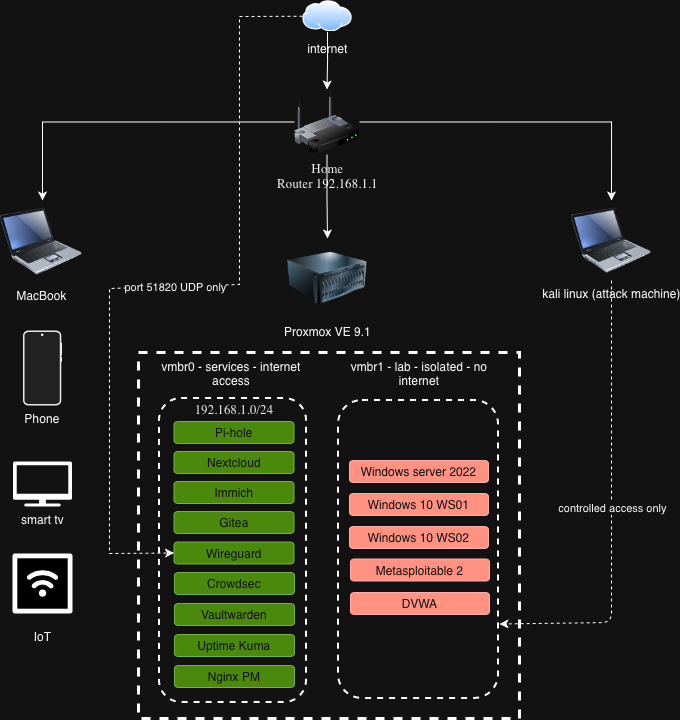
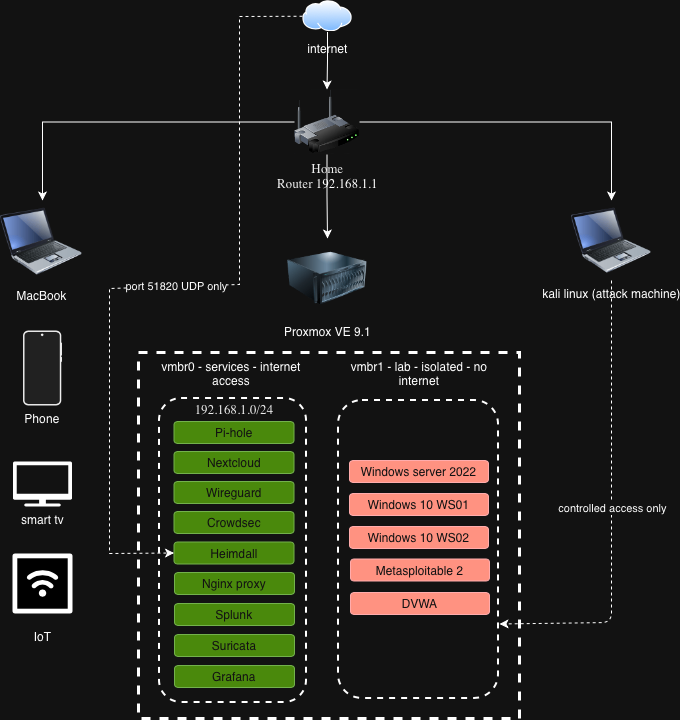
updated services, setup.md, storage.md, issues-log and network diagram

diff --git a/proxmox/issues-log.md b/proxmox/issues-log.md
@@ -119,3 +119,147 @@ critical. When setting up a firewall remotely always
 have a physical access plan in case you lock yourself out.
 A monitor and keyboard connected to the server is your
 emergency access method.
+
+---
+
+## 2026-03-22 — Power outage caused Proxmox to restart and all containers shut down
+
+**Symptom**
+Power went out in the house causing the Proxmox server
+to shut down unexpectedly. When power was restored and
+the PC restarted, all LXC containers remained offline
+and did not start automatically. Pi-hole and Nextcloud
+were both unreachable after the power cut.
+
+**Cause**
+Proxmox containers do not auto start after a reboot
+by default. The Start at boot option is disabled on
+all containers unless explicitly enabled. Without this
+setting every container requires manual starting after
+any power loss or reboot.
+
+**Fix — Enable Start at Boot for All Containers**
+For each container in Proxmox web UI:
+- Click container in left panel
+- Click Options
+- Double click Start at boot
+- Set to Yes
+- Click OK
+
+Applied to:
+- 100 (pihole)    | Start at boot: Yes
+- 101 (nextcloud)  | Start at boot: Yes
+
+Will apply to every future container during creation.
+
+**Fix — Set Startup Order**
+Configured startup order so Pi-hole starts before
+Nextcloud ensuring DNS is ready before other services:
+
+Container 100 (pihole):
+- Order: 1
+- Up delay: 30 seconds
+
+Container 101 (nextcloud):
+- Order: 2
+- Up delay: 30 seconds
+
+**Fix — BIOS Power Recovery**
+Entered BIOS on Proxmox PC and set AC Power Recovery
+to Power On so the PC automatically powers on when
+electricity is restored after a power cut.
+
+**Auto Recovery Chain After This Fix**
+1. Power restored
+2. PC powers on automatically via BIOS setting
+3. Proxmox boots up
+4. Pi-hole starts first (order 1)
+5. 30 second delay
+6. Nextcloud starts (order 2)
+7. All services running without any manual action
+
+**Lesson Learned**
+Always enable Start at boot on every container
+immediately after creating it. Always configure
+startup order so dependency services like Pi-hole
+start before services that depend on DNS.
+Always configure BIOS power recovery on any machine
+running as a server so it survives power cuts
+automatically. A proper server should require zero
+manual intervention after a power outage.
+
+---
+
+## 2026-03-23 — Nextcloud container disk filled to 100%
+
+**Symptom**
+Nextcloud showing Internal Server Error 507 storage
+quota and 412 precondition failed. Apache error log
+showing No space left on device. Nextcloud completely
+inaccessible from browser.
+
+**Cause**
+Phone auto upload was writing photos directly to the
+Nextcloud data directory inside the container disk.
+The container disk was only 8GB and filled up completely
+with 4.9GB of photos leaving only 1.8MB free.
+
+Container disk usage at time of failure:
+- Total: 7.8GB
+- Used: 7.4GB
+- Available: 1.8MB
+- Use: 100%
+
+**Immediate Fix — Free Emergency Space**
+```bash
+apt clean
+truncate -s 0 /var/log/apache2/access.log
+truncate -s 0 /var/log/apache2/error.log
+truncate -s 0 /var/log/apache2/other_vhosts_access.log
+```
+
+**Fix 1 — Expand Container Disk**
+In Proxmox web UI:
+- Click 101 (nextcloud) → Resources
+- Double clicked Hard Disk
+- Expanded from 8GB to 20GB
+- Ran resize2fs to expand filesystem:
+```bash
+resize2fs /dev/mapper/pve-vm--101--disk--0
+```
+
+**Fix 2 — Move Data Directory**
+Moved Nextcloud data directory outside the container
+disk to prevent this from happening again:
+```bash
+systemctl stop apache2
+mkdir -p /mnt/ncdata
+chown -R www-data:www-data /mnt/ncdata
+mv /var/www/html/nextcloud/data /mnt/ncdata/
+chown -R www-data:www-data /mnt/ncdata/data
+```
+
+Updated config.php:
+```php
+'datadirectory' => '/mnt/ncdata/data',
+```
+
+Started Apache again:
+```bash
+systemctl start apache2
+```
+
+**Result**
+Nextcloud fully restored. Data directory now sits
+outside the container disk. Future uploads go to
+the larger storage pool and will not fill the
+container disk.
+
+**Lesson Learned**
+Always move Nextcloud data directory outside the
+container disk before enabling auto upload on any
+device. Container disk should only hold the
+application files. User data should always go to
+a dedicated external mount on the larger storage pool.
+Monitor container disk usage regularly in Proxmox
+Summary tab and never let it exceed 80%.

diff --git a/proxmox/storage.md b/proxmox/storage.md
@@ -1,0 +1,83 @@
+# Storage Configuration
+
+## Overview
+Proxmox installed on a single 931GB HDD. Proxmox
+automatically partitioned the disk and created an LVM
+storage pool for VM and container disks. No separate
+SSD — OS and data share the same physical disk.
+
+---
+
+## Physical Disk
+| Disk | Size    | Type |
+|------|---------|------|
+| sda  | 931.5GB | HDD  |
+
+---
+
+## Partition Layout
+| Partition | Size    | Purpose             |
+|-----------|---------|---------------------|
+| sda1      | 1007KB  | BIOS boot partition |
+| sda2      | 1GB     | EFI / boot          |
+| sda3      | 930.5GB | LVM physical volume |
+
+---
+
+## LVM Volumes
+| Volume   | Size  | Purpose                 |
+|----------|-------|-------------------------|
+| pve-swap | 7.7GB | Swap space              |
+| pve-root | 96GB  | Proxmox OS              |
+| pve-data | 794GB | VM disks and containers |
+
+---
+
+## Proxmox Storage Pools
+| Name      | Type     | Purpose                     |
+|-----------|----------|-----------------------------|
+| local     | dir      | ISOs, backups, CT templates |
+| local-lvm | lvm-thin | VM disks, container disks   |
+
+---
+
+## Container Disk Allocation
+| Container | CT ID | Disk Size | Purpose       |
+|-----------|-------|-----------|---------------|
+| pihole    | 100   | 4GB       | Pi-hole app   |
+| nextcloud | 101   | 20GB      | Nextcloud app |
+
+---
+
+## Nextcloud Data Directory
+Nextcloud uploaded files and photos are stored at:
+```
+/mnt/ncdata/data
+```
+This keeps user data separate from the application
+disk so the container disk never fills up from uploads.
+
+Config.php setting:
+```php
+'datadirectory' => '/mnt/ncdata/data',
+```
+
+---
+
+## Planned Storage Allocation
+| Purpose              | Planned Size |
+|----------------------|--------------|
+| VM disks + snapshots | ~200GB       |
+| LXC containers       | ~50GB        |
+| Nextcloud data       | ~300GB       |
+| Backups              | ~150GB       |
+| Free buffer          | ~94GB        |
+
+---
+
+## Important Notes
+- Never fill container disk above 80%
+- Monitor disk usage in Proxmox Summary tab
+- All containers have Start at boot enabled
+- Nextcloud data directory points to external mount
+  not inside the container disk

diff --git a/README.md b/README.md
@@ -1,7 +1,7 @@
 # Homelab
 
 A self-hosted homelab built on Proxmox VE for learning
-penetration testing and running privacy-focused personal
+penetration testing and SIEM, also running privacy-focused personal
 services. Built from scratch on a budget Dell desktop PC.
 
 ## Hardware
@@ -25,17 +25,16 @@ services. Built from scratch on a budget Dell desktop PC.
 | Service           | Purpose                        |
 |-------------------|--------------------------------|
 | Pi-hole           | Network-wide DNS ad blocker    |
-| Nextcloud         | Self-hosted Google Drive       |
-| Immich            | Self-hosted Google Photos      |
-| Gitea             | Private Git repository         |
+| Nextcloud         | Self-hosted Drive              |
 | WireGuard         | VPN for remote access          |
 | Crowdsec          | Active threat blocking         |
-| Vaultwarden       | Self-hosted password manager   |
 | Uptime Kuma       | Service uptime monitoring      |
 | Heimdall          | Services dashboard             |
 | Nginx Proxy Mgr   | Reverse proxy and SSL          |
-| Grafana           | Infrastructure monitoring      |
-|Wazuh              | SIEM                           |
+| Splunk            | SIEM                           |
+| Suricata          | Network Security Monitor       |
+| Grafana           | Visual dashboards              |
+| duckDNS           | Hosts my domain                 |
 
 ## Lab Environment
 | Machine              | Purpose                         |

diff --git a/proxmox/setup.md b/proxmox/setup.md
@@ -127,13 +127,11 @@ for what happens when this order is wrong.
 
 | Container | IP | RAM | Purpose | Status |
 |---|---|---|---|---|
-| Pi-hole | 192.168.0.X | 256MB | DNS / ad blocking | ⬜ |
+| Pi-hole | 192.168.0.X | 256MB | DNS / ad blocking | OK |
 | DuckDNS | 192.168.0.X | 128MB | Dynamic DNS | ⬜ |
 | WireGuard | 192.168.0.X | 256MB | VPN | ⬜ |
-| Vaultwarden | 192.168.0.X | 50MB | Password manager | ⬜ |
-| Gitea | 192.168.0.X | 256MB | Private Git | ⬜ |
-| Nextcloud | 192.168.0.X | 512MB | File storage | ⬜ |
-| Immich | 192.168.0.X | 512MB | Photo backup | ⬜ |
+| Nextcloud | 192.168.0.X | 512MB | File storage | OK |
+| Splunk | 192.168.0.X | 512MB | SIEM | ⬜ |
 | Crowdsec | 192.168.0.X | 256MB | Threat blocking | ⬜ |
 | Uptime Kuma | 192.168.0.X | 100MB | Uptime monitor | ⬜ |
 | Heimdall | 192.168.0.X | 64MB | Dashboard | ⬜ |
@@ -143,7 +141,7 @@ for what happens when this order is wrong.
 ---
 
 ## Lab VMs
-(Fill in as each one is deployed)
+
 
 | VM | IP | RAM | Purpose | Status |
 |---|---|---|---|---|
@@ -156,17 +154,17 @@ for what happens when this order is wrong.
 ---
 
 ## SSH Hardening
-(Fill in when done)
+
 
 ---
 
 ## Two Factor Authentication
-(Fill in when done)
+
 
 ---
 
 ## Fail2ban
-(Fill in when done)
+
 
 ---
 
